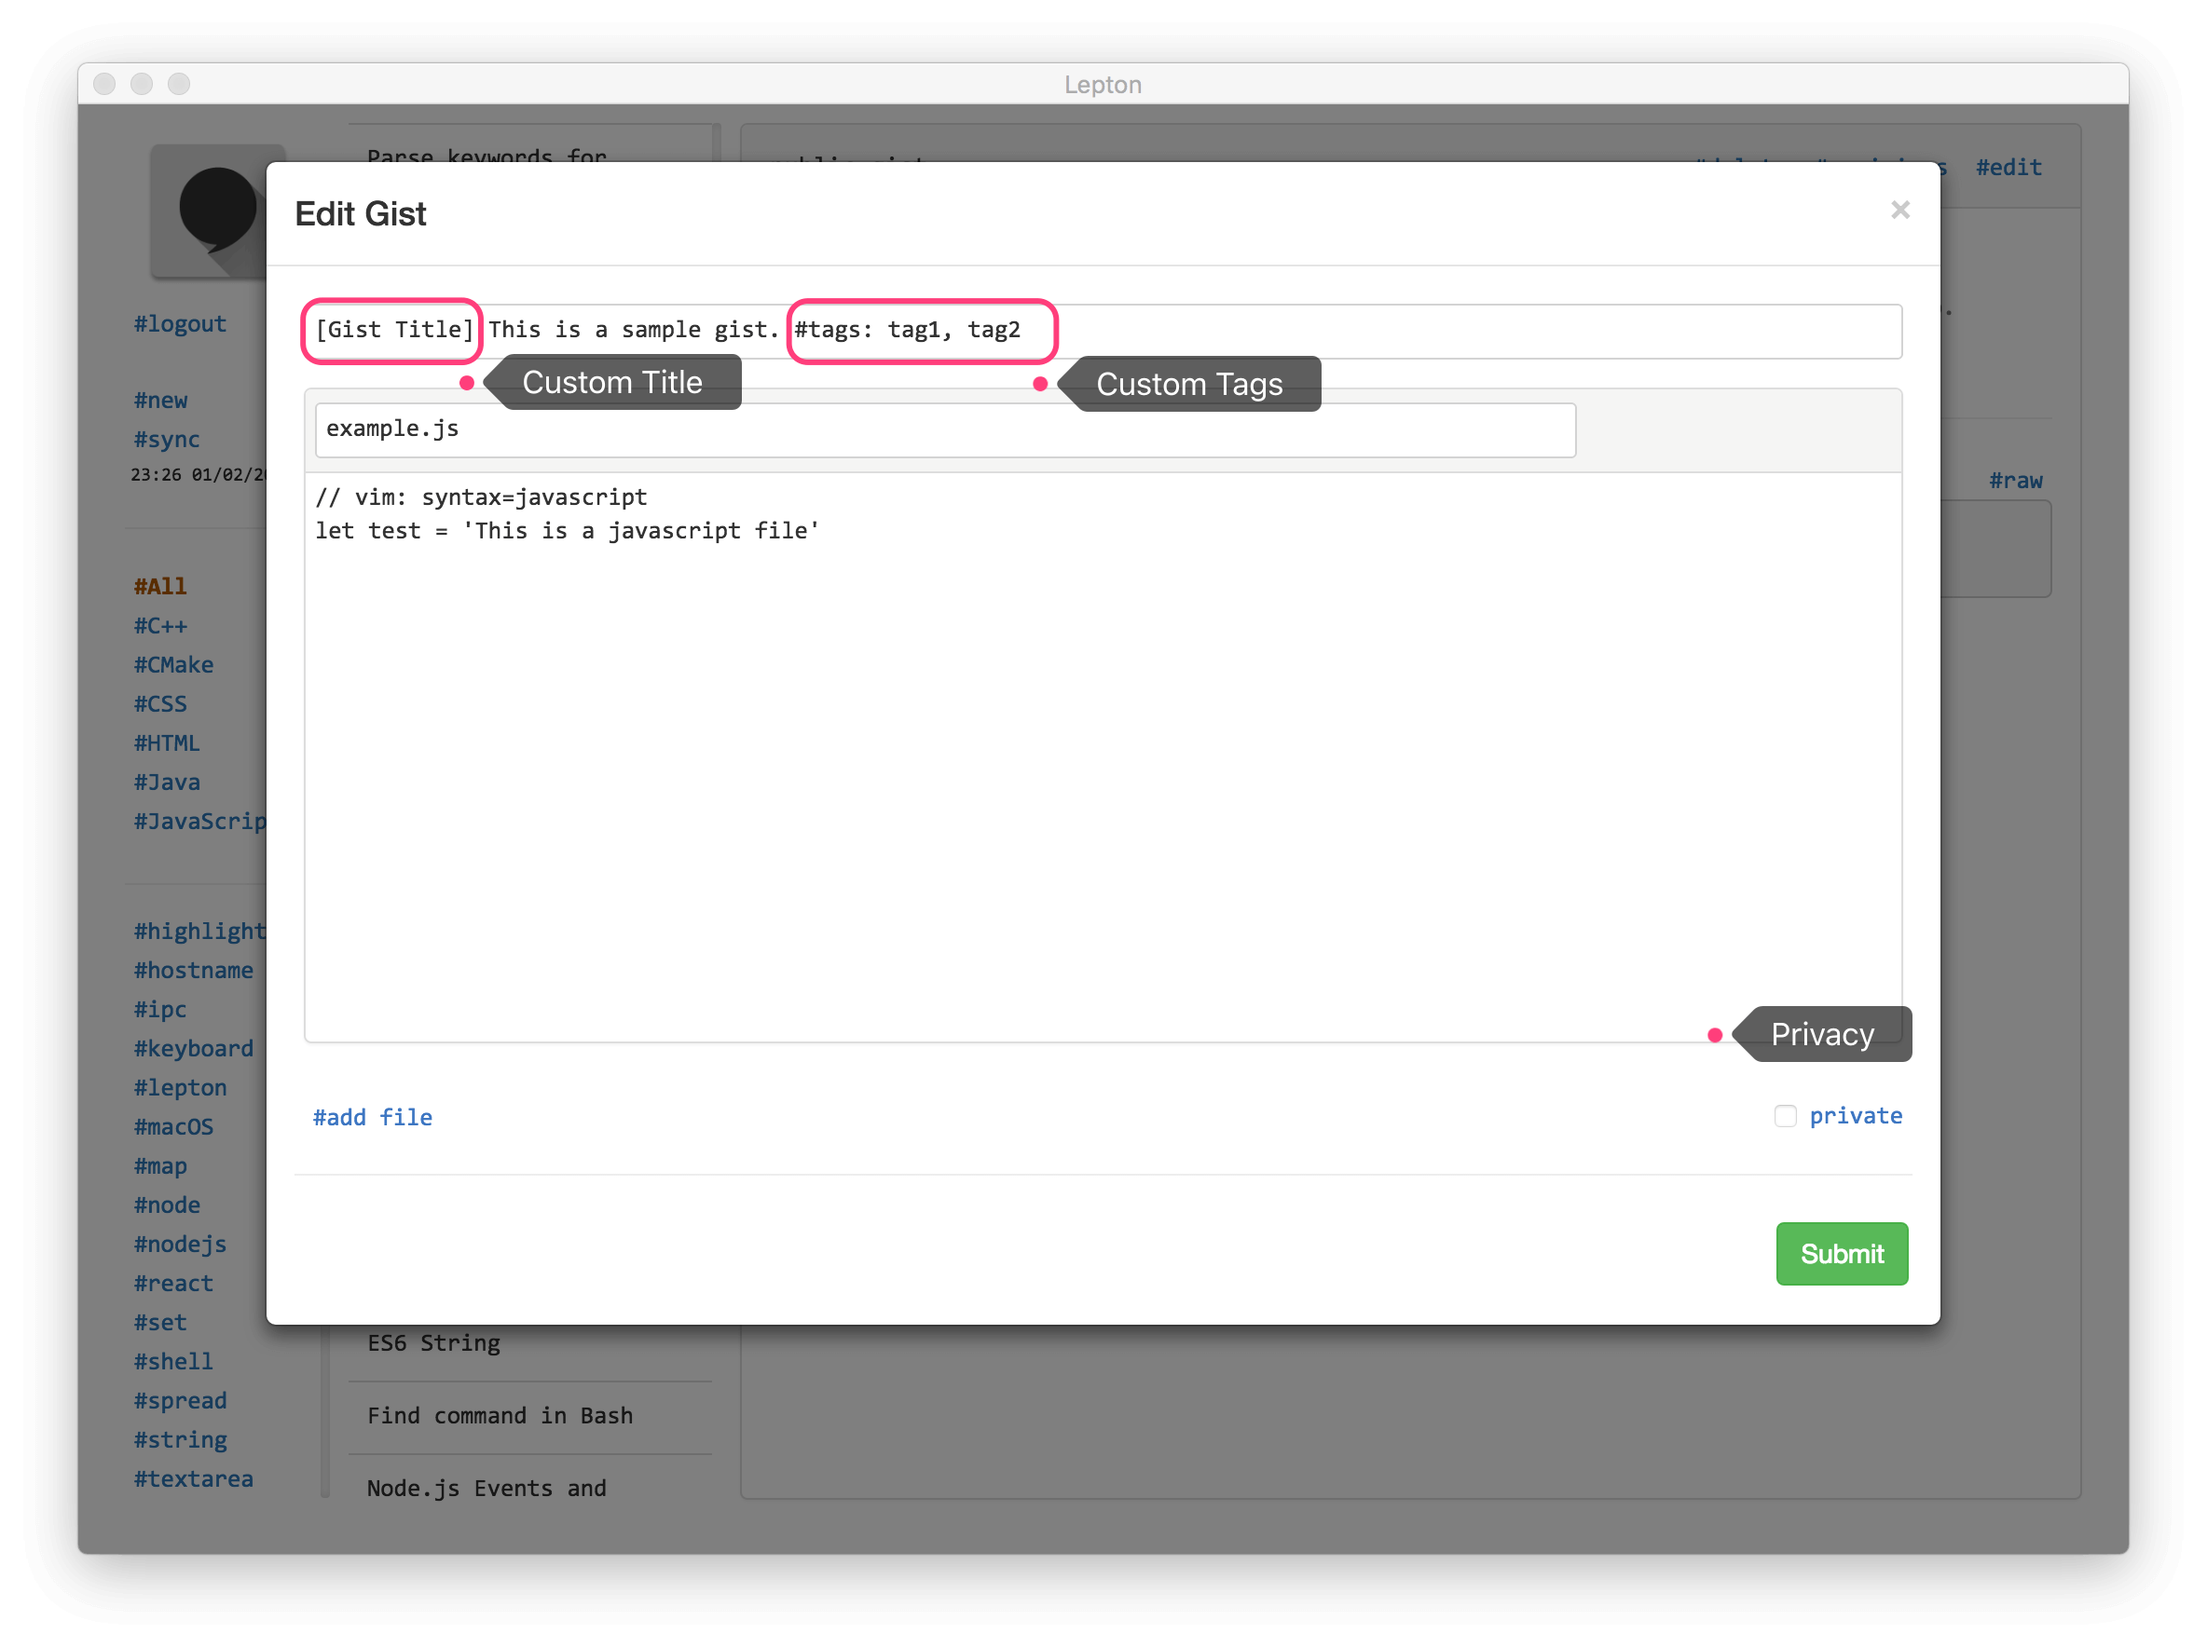
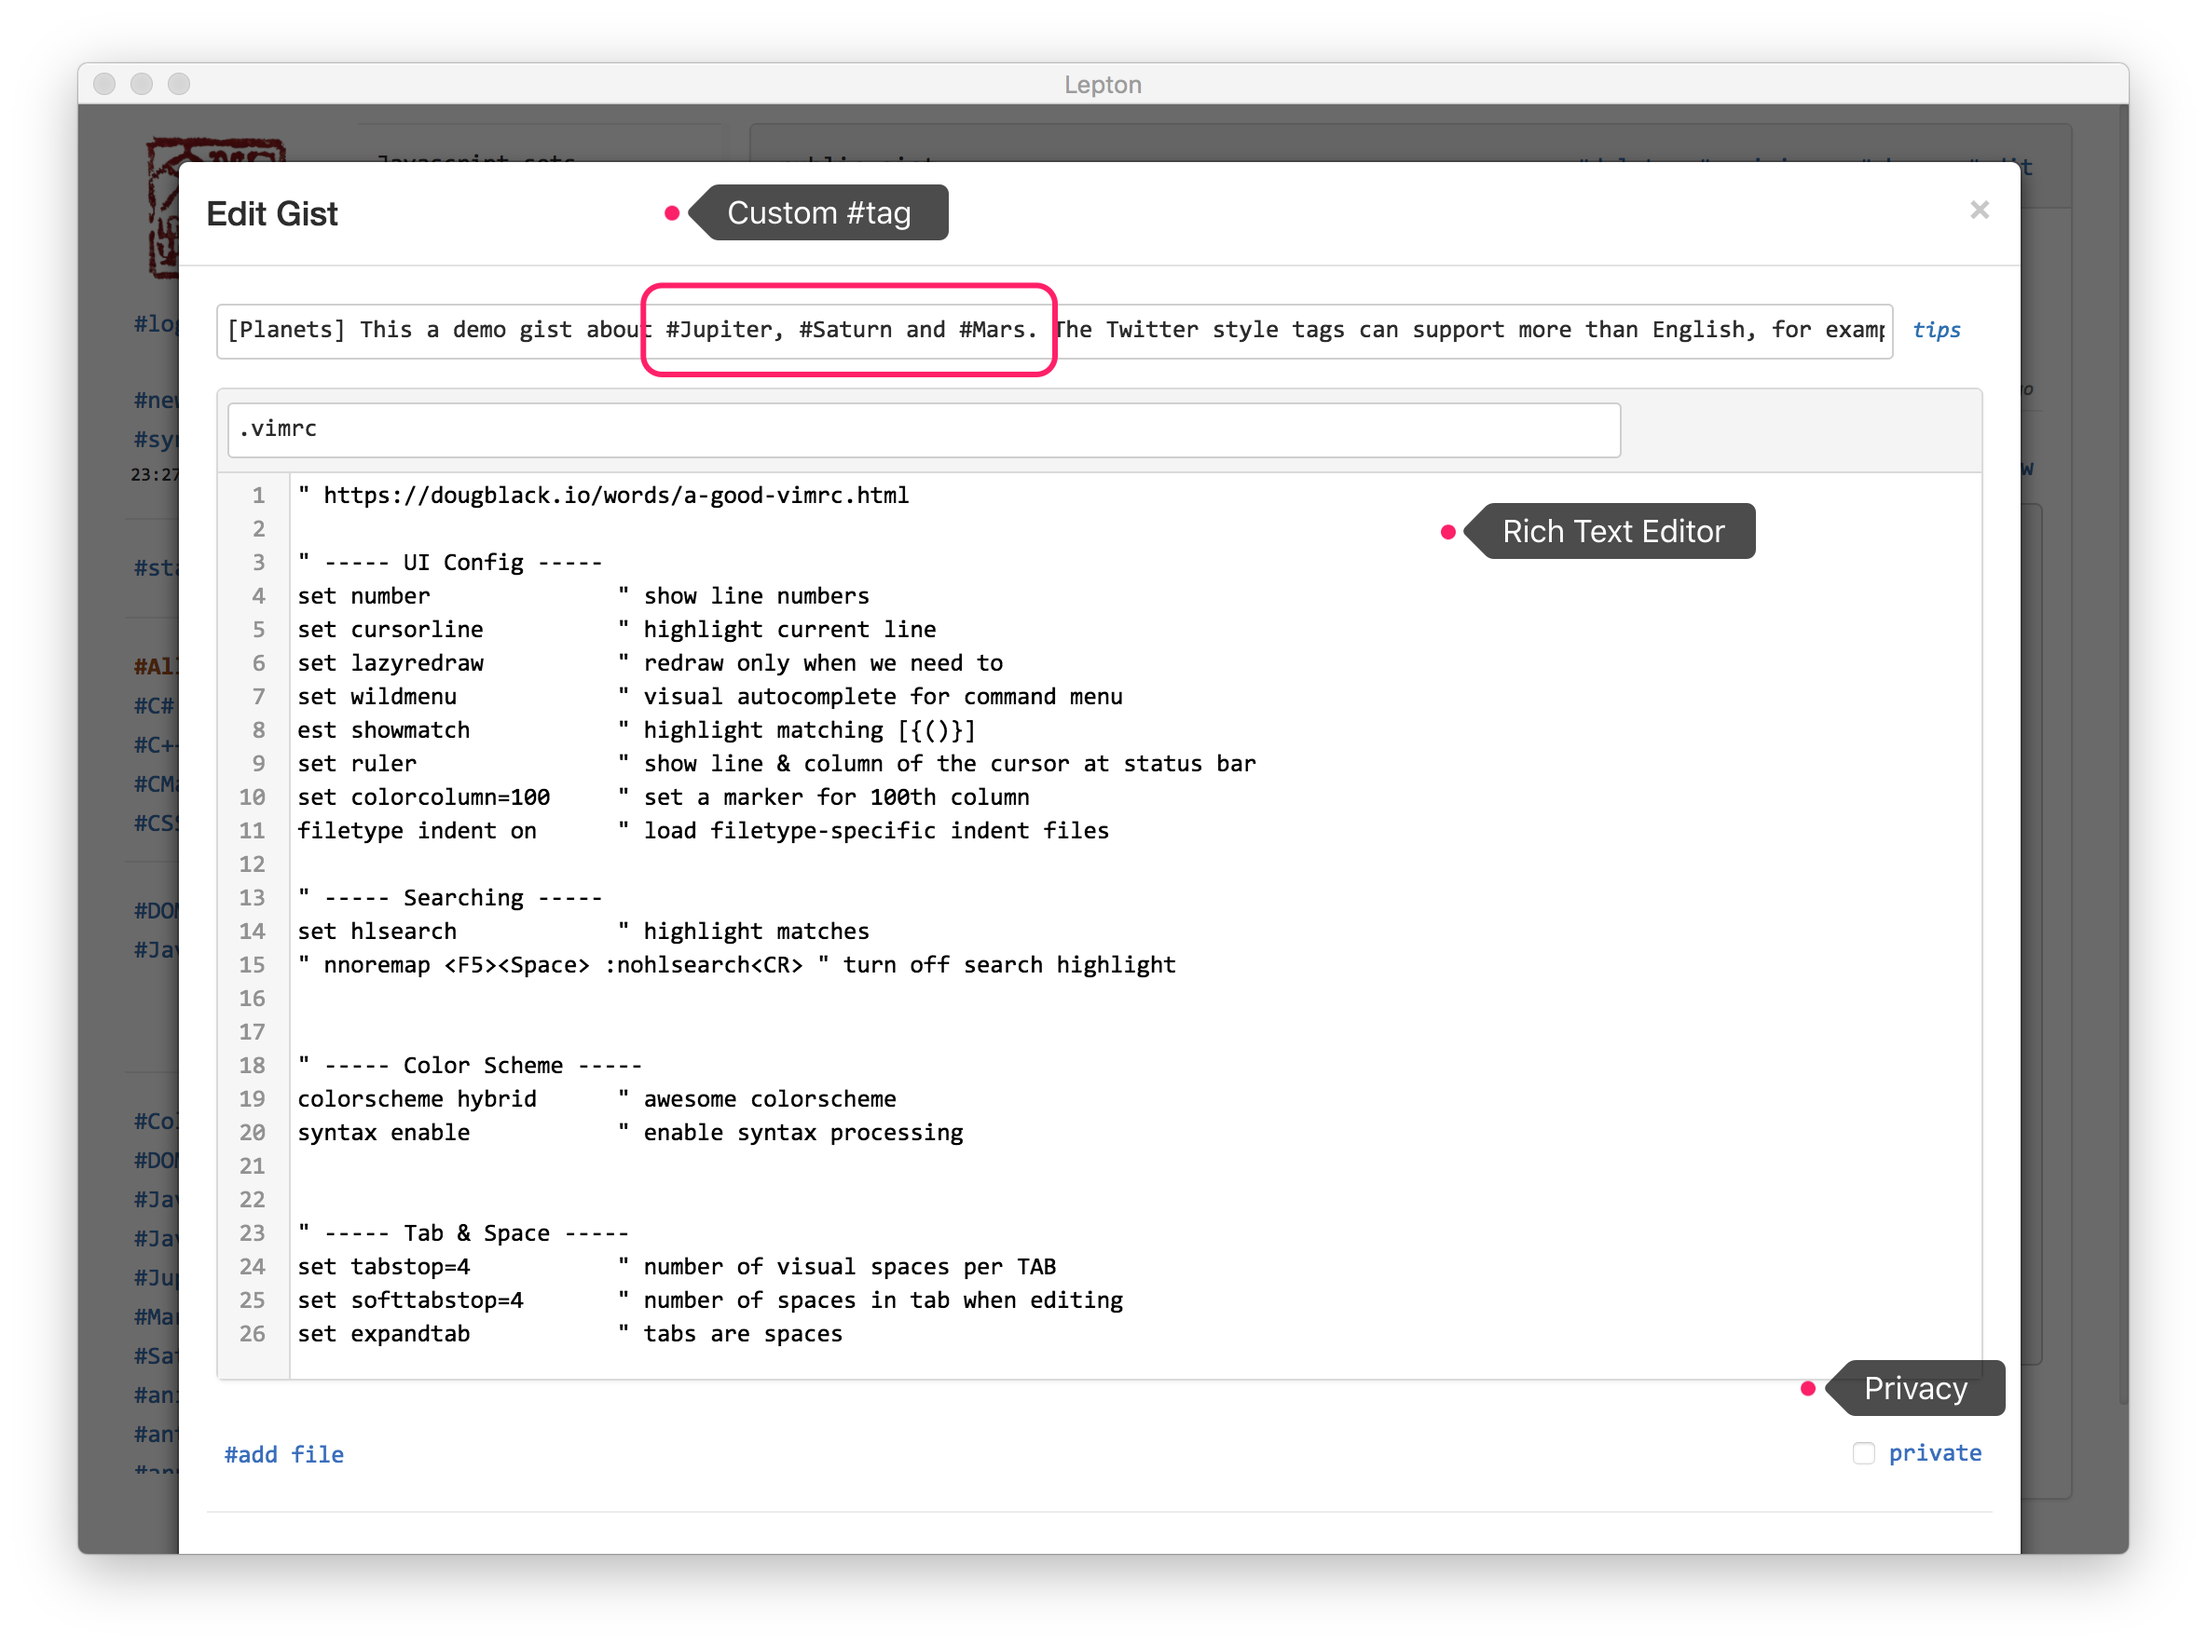
Update the README and GitHub Page about the new tag format

diff --git a/docs/index.html b/docs/index.html
@@ -204,9 +204,7 @@
                     <li class='faq-item'>
                         <div class="faq-question">How to specify the title and tags for my gist?</div>
                         <div class="faq-answer">
-                            GitHub Gist doesn't come with the native support for 'title' and 'tag' in the description field.
-                            <br/><br/>
-                            <b>Lepton</b> adds these support, if the format <code>[title] description #tags: tag1, tag2</code> is followed in the gist description field.
+                            Follow the format <code>[title] description #tag1 #tag2</code> in the description field.
                             <center>
                                 <div class="faq-img">
                                     <img class="img-responsive img-centered" src="./img/formatted_description2.png"/>
@@ -368,9 +366,6 @@
                             <hr class="star-primary">
                             <img src="img/portfolio/edit.png" class="img-responsive img-centered" alt="">
                             <p>Tag your gists!</p>
-                            <div class="faq-note">
-                                Note: Tags should be separated by comma ' , '
-                            </div>
                             <br/>
                             <button type="button" class="btn btn-default" data-dismiss="modal"><i class="fa fa-times"></i> Close</button>
                         </div>

diff --git a/README.md b/README.md
@@ -89,17 +89,19 @@ $ npm run dist
 
 ## FAQ
 #### Why is my gist's language classified as "Other"?
-Lepton depends on GitHub API to detect the language. If this fails, you can put `// vim: syntax=<your_language>` at the top of the gist to specify the language.
+Lepton depends on GitHub API to detect the language. If this fails, you can still put `// vim: syntax=<your_language>` at the top of the gist to specify the language.
 ```
 // vim: syntax=javascript
 let test = 'This is a javascript file'
 ```
 
-#### Why I can't search my gist's content?
-Currently, Lepton only supports the search for the gist's description field.
+#### Why I can't search the gists' content?
+Currently, Lepton only supports the search for the gist's description field. This is limited by GitHub's API support.
 
 #### How to specify the title and tags for my gist?
-GitHub Gist doesn't come with the native support for 'title' and 'tag' in the description field. Lepton adds these support, if the format `[title] description #tags: tag1, tag2` is followed in the gist description field.
+```
+[title] description #tag1 #tag2
+```
 
 #### How to provide feedback?
 Please submit an issue ticket in the [GitHub Issue page](https://github.com/hackjutsu/Lepton/issues). Or, if you like, send a [pull request](https://github.com/hackjutsu/Lepton/pulls).
